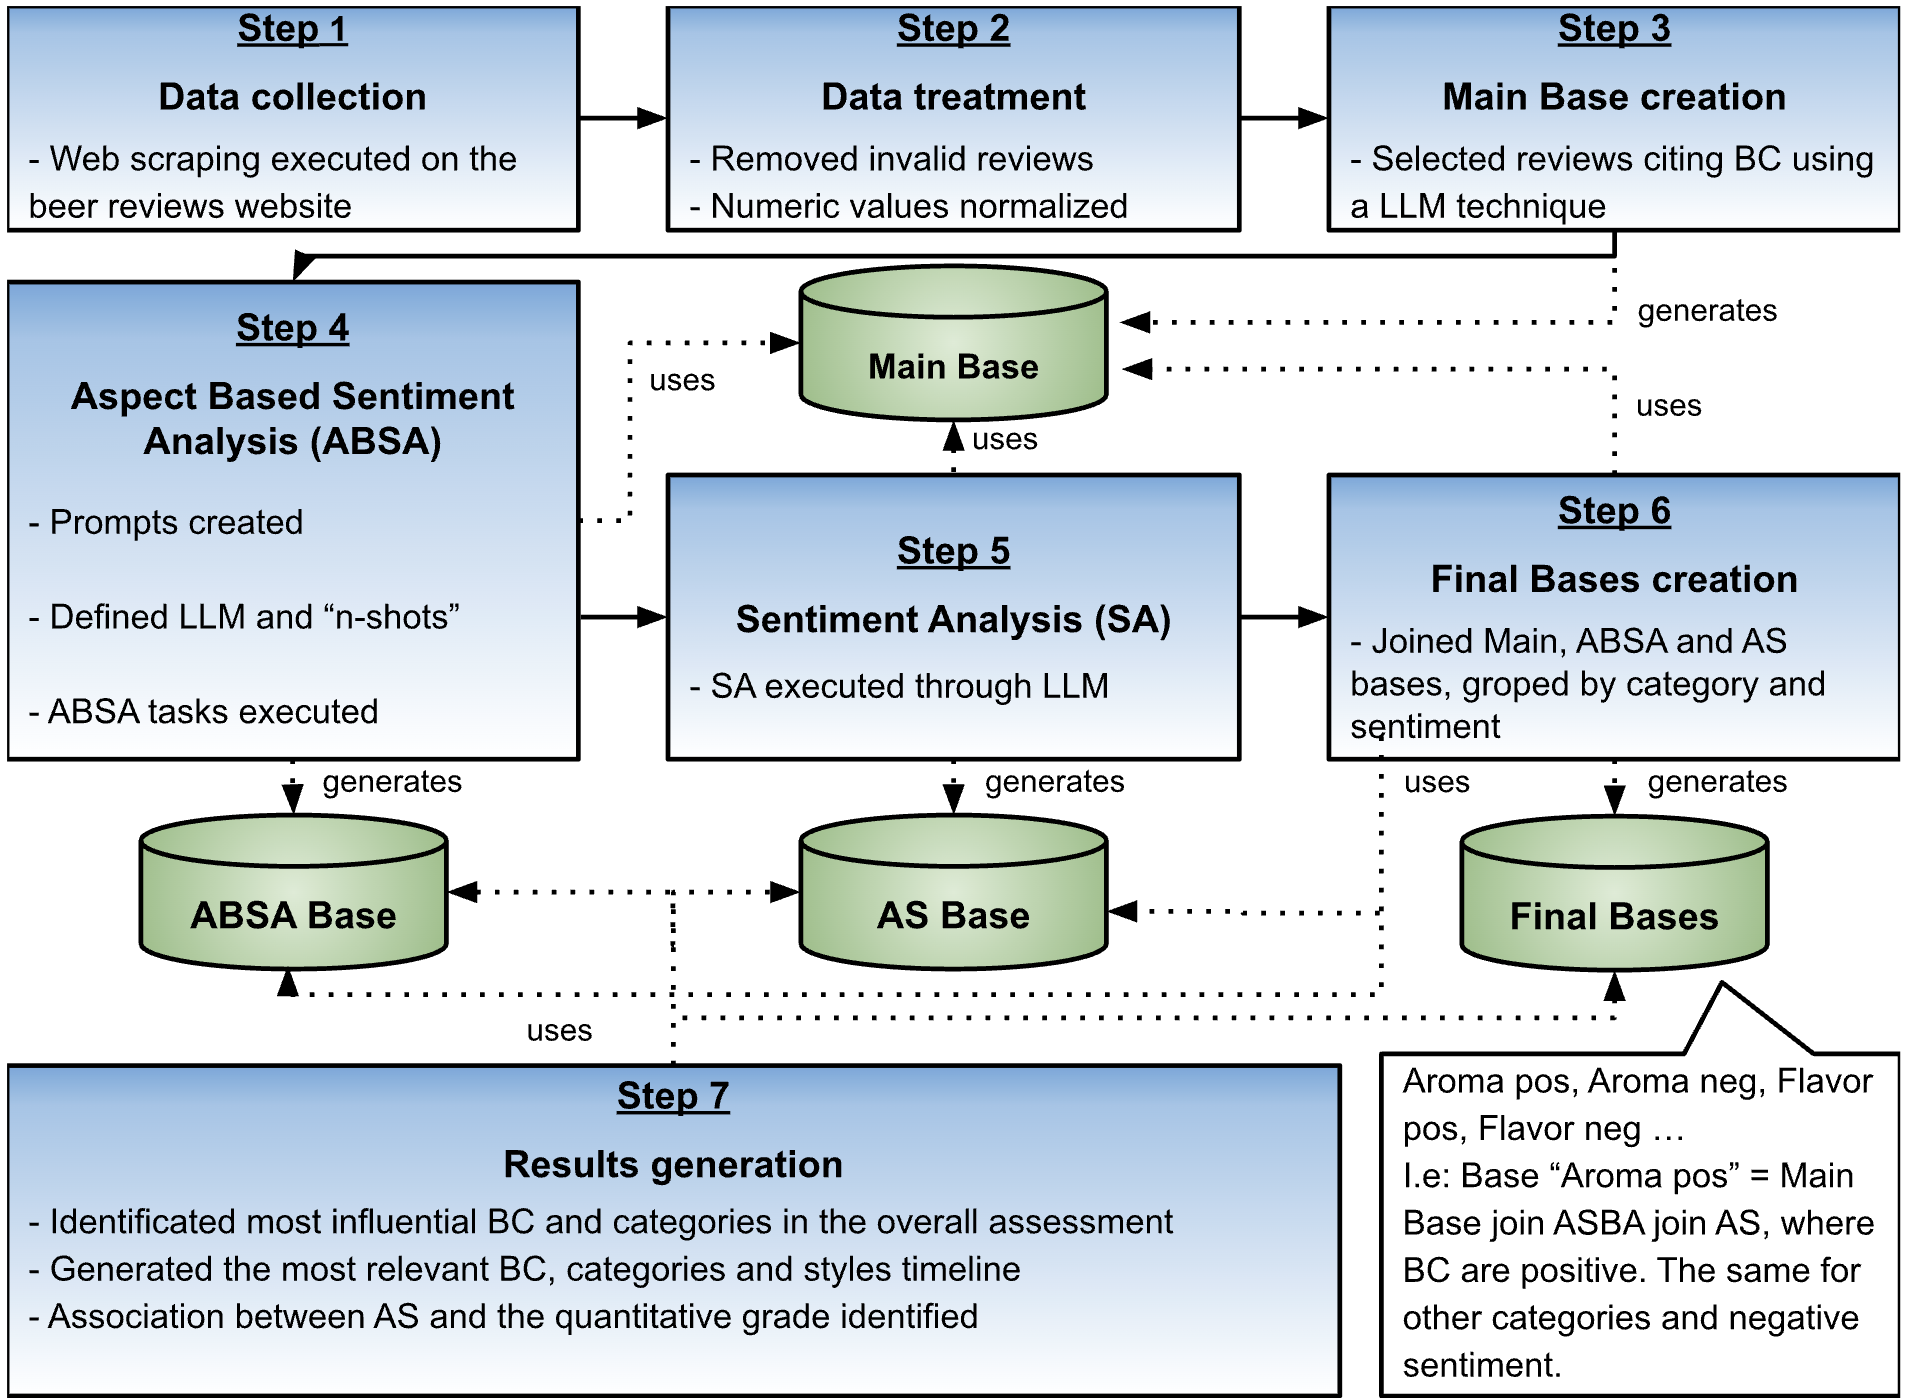
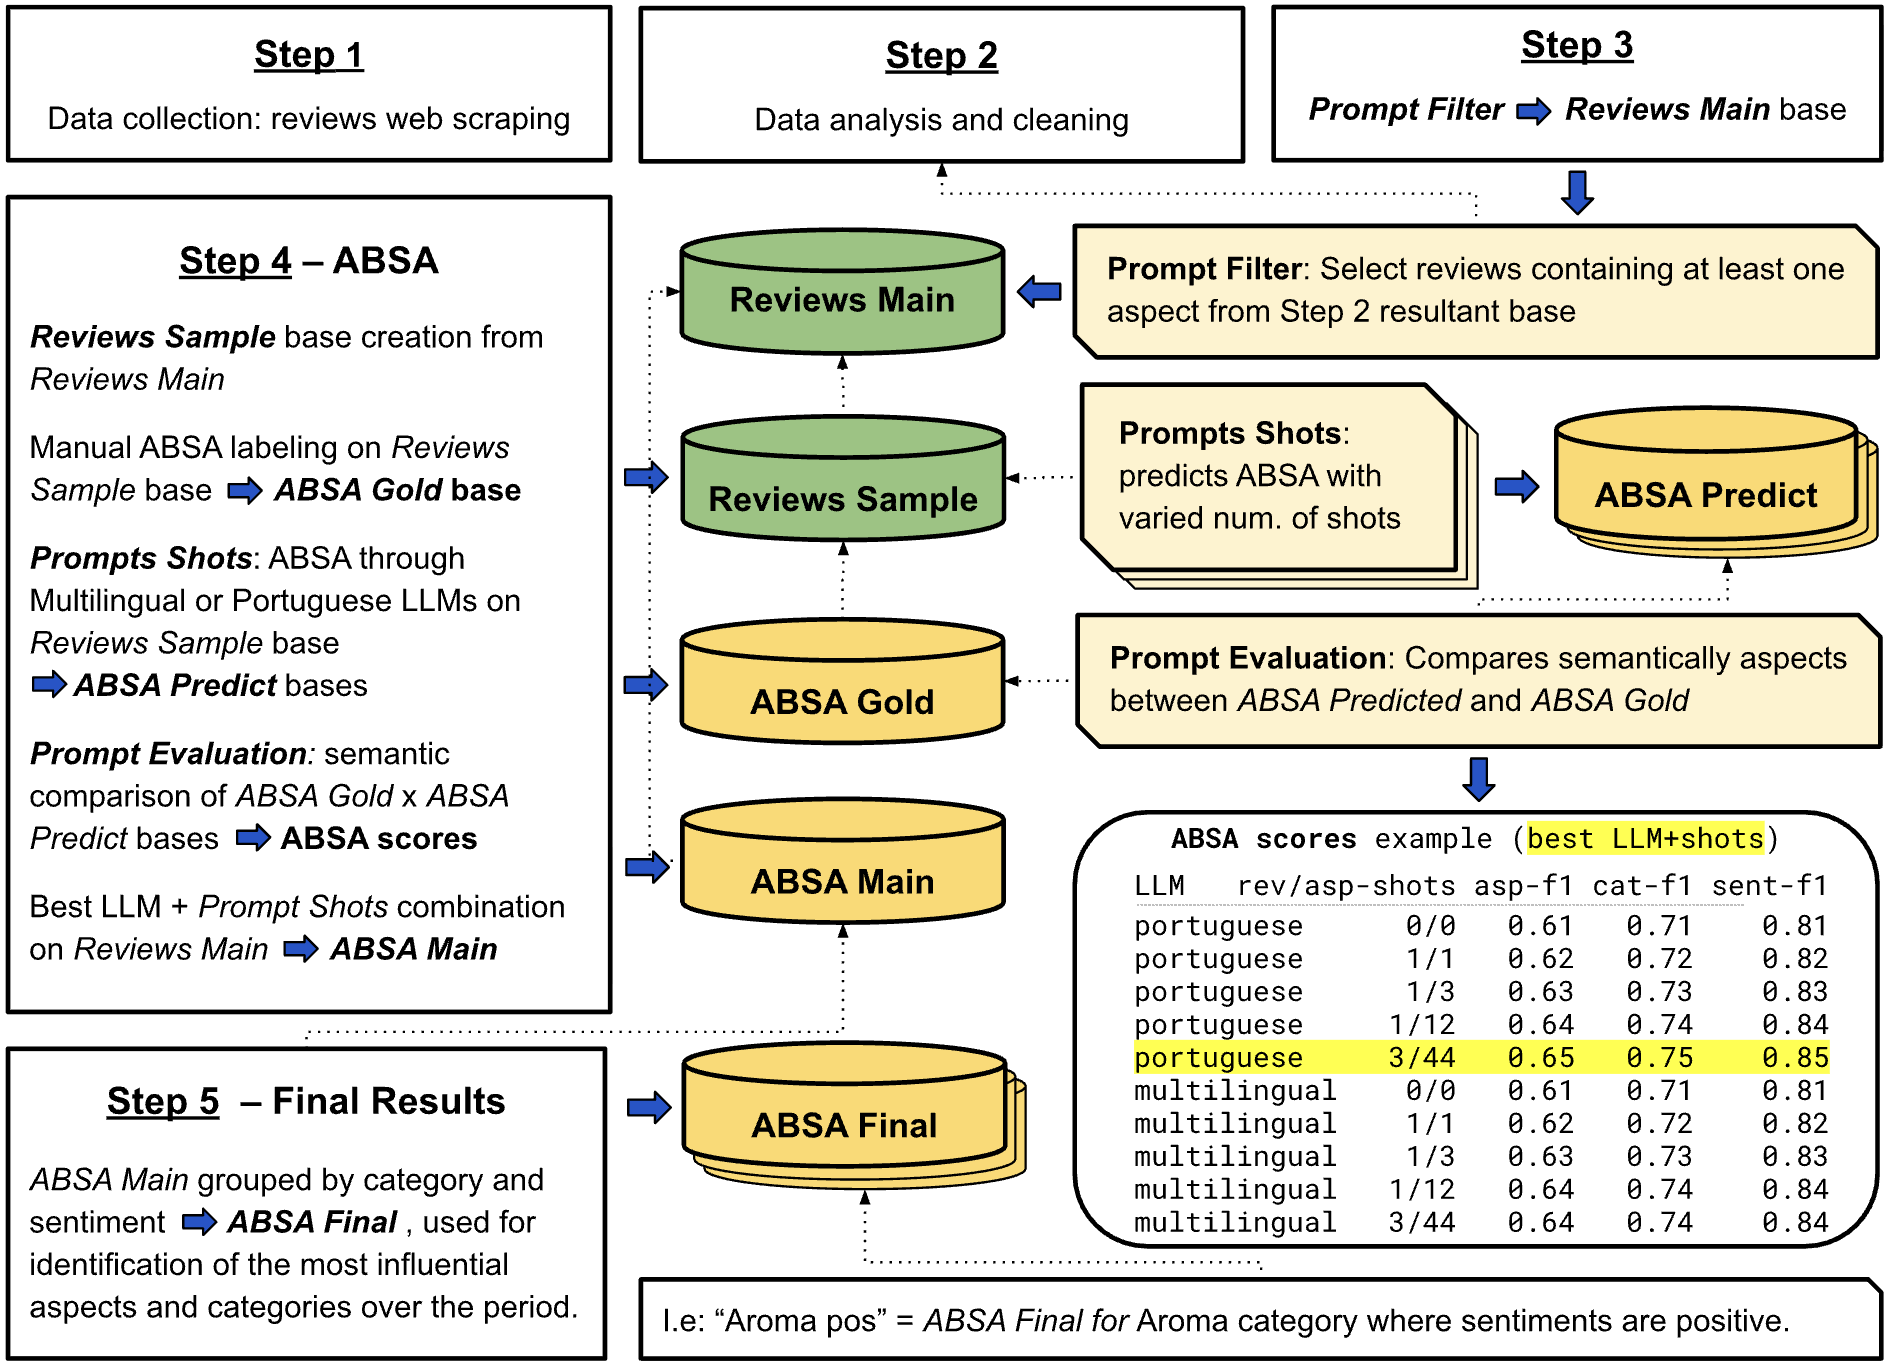
Update

diff --git a/README.md b/README.md
@@ -5,20 +5,20 @@ This repository contains the methodology tasks of the paper above.
 
 ## ABSTRACT 
 
-Aspect-Based Sentiment Analysis (ABSA) enables the identification of user preferences toward specific entities in text. One of the motivations for this study is the lack of research applying ABSA with Large Language Models (LLMs) to unlabeled datasets, particularly in Portuguese. This work applies ABSA and general Sentiment Analysis (SA) to Portuguese-language beer reviews from one Brazilian website, focusing on Beer Characteristics (BC) such as aroma, flavor, and visual attributes. Due to the unlabeled nature of the dataset, an unsupervised LLM approach was adopted, testing Sabiá-3 and GPT-4 mini with zero-shot, one-shot, and few-shot prompting. A representative 22-review subset was used to evaluate configurations, with the optimal setup (Sabiá-3, one review example, all BC examples) achieving 69.09% precision, 63.33% recall, and an F1-score of 66.08%. This configuration was applied to the full dataset with 467,431 BC records. Results revealed caramel, fruity, refreshing, and high drinkability as the most positively associated BC, while watery and low drinkability were the most negative. Temporal analysis identified growth in IPA and Russian Imperial Stout styles. Findings confirm that LLM-based ABSA in Portuguese can capture nuanced consumer preferences, offering actionable insights for the Brazilian craft beer market despite dataset and reproducibility limitations.
+This study investigates the application of Large Language Models (LLMs) to unsupervised Aspect-Based Sentiment Analysis (ABSA) in Portuguese, focusing on consumer reviews of Brazilian beers. We construct a novel domain-specific dataset comprising nearly 60,000 filtered reviews collected from a major Brazilian beer forum, along with a manually annotated gold-standard subset containing 1,712 labeled Beer Characteristics (BC), categories, and sentiment polarities. Two LLM families—one monolingual (Sabiá-3) and one multilingual (GPT-4o mini)—are systematically evaluated under zero-shot, one-shot, and few-shot prompting strategies. Results show that the best configuration achieves F1-scores of 0.857 for aspect extraction, 0.826 for category identification, and 0.552 for sentiment classification, with sentiment detection proving the most sensitive to prompt design. Using the optimal model and prompt configuration, a large-scale annotated dataset of over 880,000 extracted BC instances is generated, enabling longitudinal analysis of consumer perceptions from 2008 to 2025. Findings indicate that positive attributes such as refreshing mouthfeel and persistent foam dominate consumer praise. The proposed pipeline demonstrates that LLM-based ABSA can effectively uncover fine-grained consumer preferences in low-resource languages without extensive labeled data, offering a scalable and cost-effective tool for market intelligence and product development in the brewing industry.
 
 
 ## Methodology 
 
-ASBA techniques were used in beer evaluation texts to identify the feeling of each CC. AS techniques were applied to identify the overall sentiment of the review. The following figure presents the overall workflow: 
-- Step 1 and Step 2 performs the tasks of data collection, analysis and pre-processing. 
-- Step 3 creates the Main Base by selection of valid assessments. 
-- Step 4 identifies and performs the BC identification, classification and sentiment analysis of each BC review (ASBA tasks).
-- Step 5 performes the general SA of the reviews in the Main Base. 
-- Step 6 generates the Final bases through joining of the Main Base and the bases resulting from ABSA and SA.
-- Step 7 generates results using these bases.
+ABSA techniques powered by LLMs were applied to identify consumer preferences regarding BC, conducted on the textual content of user reviews. The following sections detail the materials and procedures employed in the study, as illustrated in Fig. 1. 
 
 ![Fig1  Fluxograma](./docs/eiras1.png)
+FIGURE 1.Procedure Fluxogram. Large arrows mean “generates”; small arrows mean “uses".
+
+Steps 1 and 2 encompassed the processes of data collection, pre-processing, and preliminary analysis. In Step 3, a primary dataset—“Reviews Main”—was constructed by identifying and selecting valid reviews through LLM-based filtering technique. In Step 4, two distinct LLMs were evaluated for the ABSA tasks on a sample subset of the “Reviews Main” base (“Reviews Sample”). Based on comparative performance, the most effective model was selected for application to the full dataset (“Reviews Main”), generating an aspect-annotated version referred to as the “ABSA Main”. 
+Step 5 generated the “ABSA Final” bases from the “ABSA Main” and “Reviews Main”, by grouping reviews by category and sentiment polarity (positive or negative) and by the year of the review in order to show the identification of the most influential BC and their categories in shaping overall product assessments and temporal analyses to track sentiment evolution over time.
+
+
 
 
 ## General instructions
@@ -92,13 +92,13 @@ MARITACAAI_API_KEY=123........................
 
 ## Downloading the dataset 
 
-Download your data set at the same directory defined in the WORK_DIR parameter in .env file.
+Download the dataset step_3_reviews_main.csv at the same directory defined in the WORK_DIR parameter in .env file.
 
-**TODO PUT THE DATASET IN THE HUGGING FACE**
+[ABSA_beer](https://huggingface.co/datasets/deniseiras/ABSA_beer)     
 
 ~~~bash
 cd ~/ABSA_beer__workdir
-wget XXX 
+wget https://huggingface.co/datasets/deniseiras/ABSA_beer/blob/main/step_3_reviews_main.csv
 ~~~
 
 ## Running
@@ -106,14 +106,11 @@ wget XXX
 The main program is based at absa_beer/absa_beer.py , which calls from Step1 to Step 7.
 The Step 1 collects data from the site brejas.com.br, Step 2 does the pre-processing and the Step 3 generates the Main Base.
 
-However, the base could be obtained by downloading it from :
-
-**TODO DOWNLOAD BASE SITE**
+However, the base could be obtained by downloading it as shown in the "Downloading the dataset" section.
 
 Each Step [number] has its own processing function called "run", which generates a dataset called "step_[number].csv". Each step uses the bases of the previous step.
 
-All the datasets was previous available as shown in the "Downloading the datasets" section, so 
-you may not need to run all the steps. I. e. the Steps from Step 1 to Step 3 are the most time demanding, and you shouldn't change this methods, otherwise you will have a differente dataset, because the site brejas.com.br might be updated with new reviews. 
+All the datasets was previous available as shown in the "Downloading the datasets" section, so you may not need to run all the steps. I. e. the Steps from Step 1 to Step 3 are the most time demanding, and you shouldn't change this methods, otherwise you will have a differente dataset, because the site brejas.com.br might be updated with new reviews. 
 
 If you want to run from the Step 4 (ABSA), you need to comment the calling of the Steps 1 to 3 in absa_beer.py file
 
@@ -130,7 +127,5 @@ If you need further assistance, please do no hesitate to contact me.
 ## Results
 
 Each step generates the file step_[number].csv, containing the dataset resulting from each step.
-
-The Steps 6 and 7 generates output texts and figures that demonstrate the final results.
 
 
